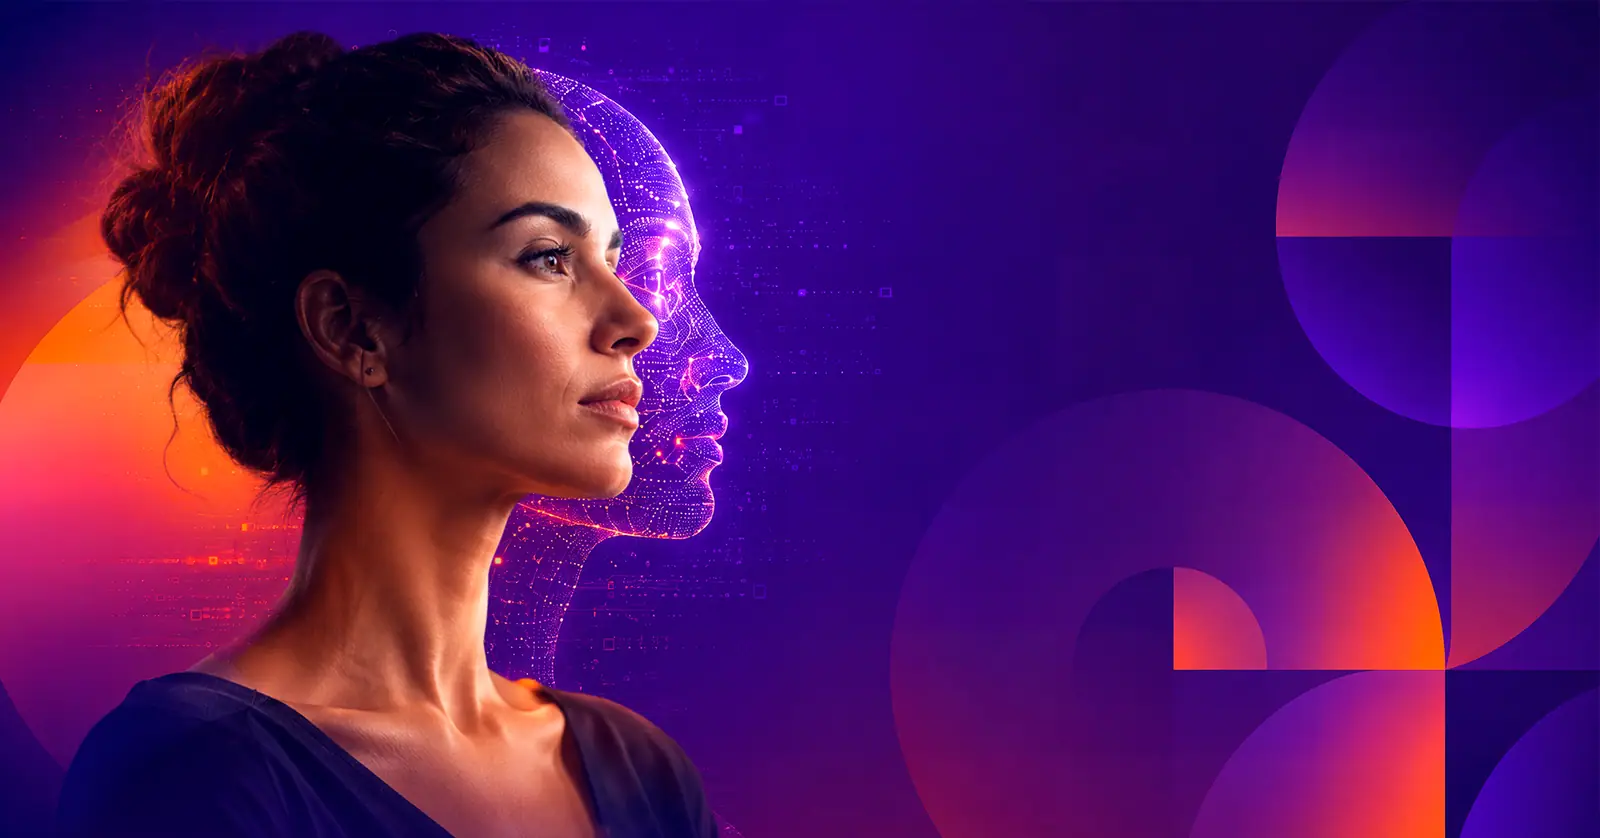
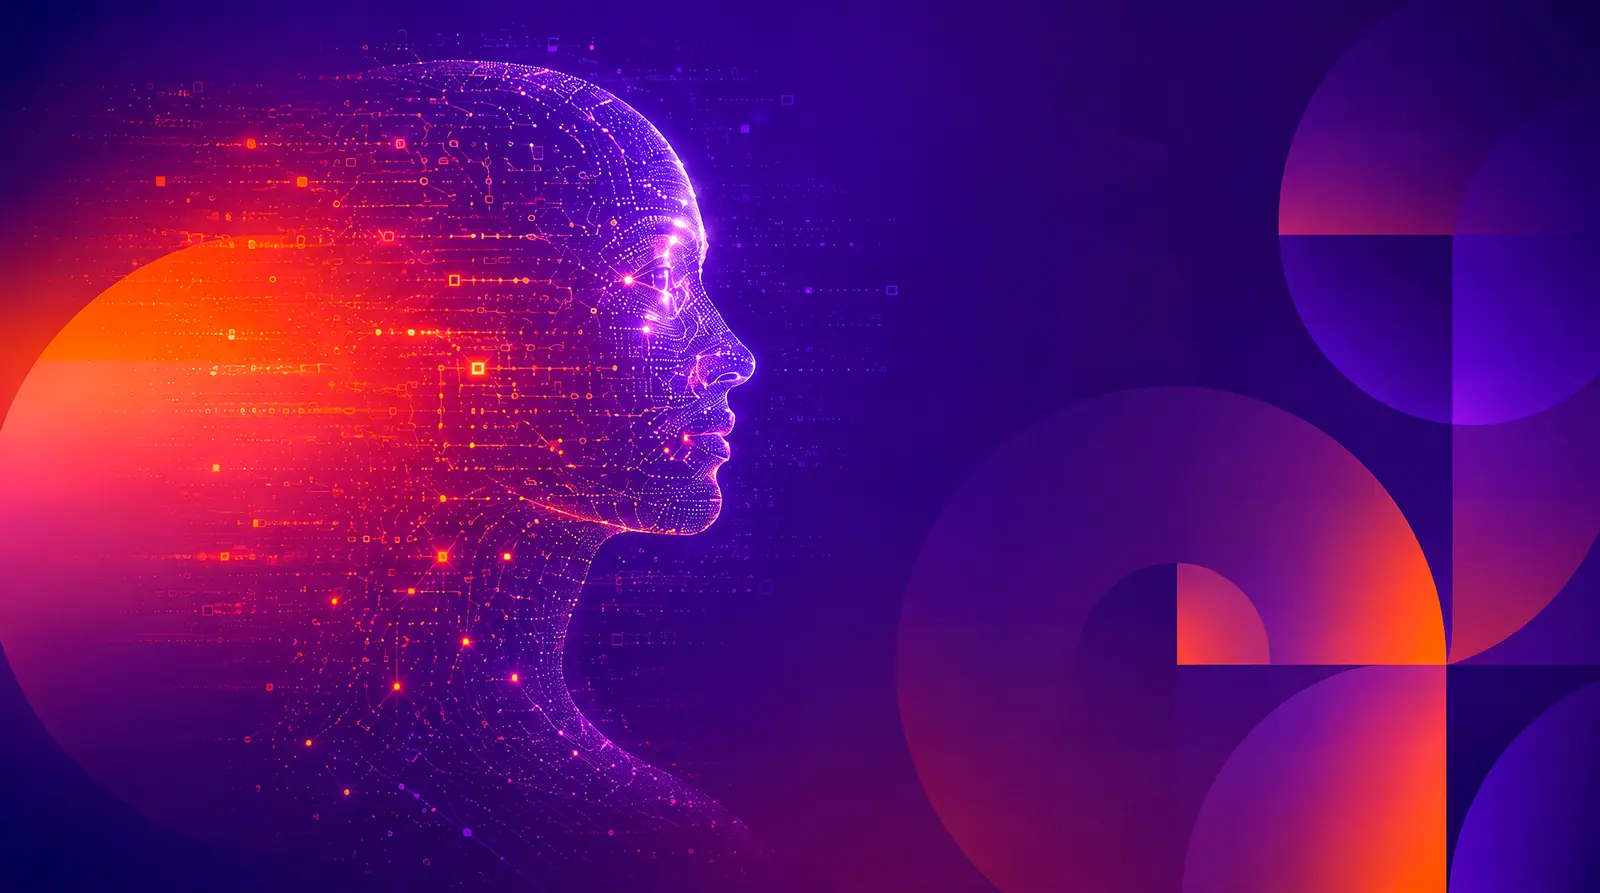
feat(site): hero no estilo do manual da marca + Gart Capote
Hero refeito segundo o ID oficial (ID PMIRS SUMMIT 26.pdf)
- Arte em saturacao total: o scrim caiu de .90/.74/.42 para 0/.30/.62.
  O manual trata a arte como protagonista, nao como textura de fundo.
- Texto migra para o espaco negativo a direita; a coluna esquerda fica livre
  para a arte respirar. Antes o texto cobria o sujeito da foto.
- "Human + IA" vira o headline (104px, peso 300), com o texto anterior como
  subtitulo - a hierarquia das paginas 1, 2 e 5 do manual.
- O sinal de mais em #FC6226, o laranja vivo do manual.

Imagens por secao (a pedido)
- Hero: bg 06
- Workshops exclusivos: bg 01
- Nao perca / CTA final: bg 03

Palestrantes
- Gart Capote como keynote e como instrutor de workshop
- Selo de LinkedIn ao lado do nome (Gino e Gart), com variante para fundo claro

Correcoes
- .nav-right tinha display:flex inline vencendo a media query de 980px, entao
  ficava visivel no mobile sobrepondo o logo do PMI
- Verdes residuais que o regex anterior nao pegou: #10342b, #0a1f18 e o par
  claro #e8f4ee/#f3faf6 na secao de precos
- .hero-art escondida em <=980px: com uma coluna so, virava um vazio no topo
  (hero mobile: 1042px -> 814px)

Contraste reverificado apos a reducao do scrim: 6 pares, todos >= 5.60:1.

Pendente: fotos de Gart Capote (ha TODO nos dois cards).

diff --git a/index.html b/index.html
@@ -59,7 +59,7 @@
 </script>
 <link rel="preconnect" href="https://fonts.googleapis.com">
 <link rel="preconnect" href="https://fonts.gstatic.com" crossorigin>
-<link href="https://fonts.googleapis.com/css2?family=Hanken+Grotesk:ital,wght@0,400;0,500;0,600;0,700;0,800;1,400&family=Schibsted+Grotesk:wght@500;600;700;800;900&display=swap" rel="stylesheet">
+<link href="https://fonts.googleapis.com/css2?family=Hanken+Grotesk:ital,wght@0,200;0,300;0,400;0,500;0,600;0,700;0,800;1,400&family=Schibsted+Grotesk:wght@500;600;700;800;900&display=swap" rel="stylesheet">
 <style>
 :root{
   --ink:#1a1230;
@@ -69,6 +69,7 @@
   --violet:#7C3AED;
   --violet-d:#6D28D9;
   --tang-lt:#FF9A5C;
+  --brand-orange:#FC6226;   /* laranja vivo do manual: "save the date", "KEYNOTE CONFIRMADO" */
   --teal:#E05B17;
   --green:#C2410C;
   --navy:#1b1145;
@@ -131,12 +132,21 @@ nav.top.scrolled{box-shadow:0 4px 30px rgba(20,13,51,.55);}
 .hero{position:relative;background:var(--hero-grad);padding:clamp(56px,8vw,104px) 0 0;overflow:hidden;}.stats-outer{position:relative;z-index:4;}
 /* Foto oficial da marca. O gradiente acima permanece como paint-before-decode. */
 .hero::before{content:'';position:absolute;inset:0;z-index:0;background-image:image-set(url('assets/hero-summit.webp') type('image/webp'),url('assets/hero-summit.jpg') type('image/jpeg'));background-position:center;background-size:cover;}
-/* Scrim direcional: escurece a esquerda (onde fica o h1, e onde o sujeito da foto
-   está) e abre à direita, deixando a arte respirar atrás do .hero-card.
-   A passada vertical não é opcional — a .stats-bar sobe -50% sobre esta borda. */
-.hero-glow{position:absolute;inset:0;z-index:1;pointer-events:none;background:linear-gradient(180deg,rgba(20,13,51,0) 55%,rgba(20,13,51,.92) 100%),linear-gradient(90deg,rgba(20,13,51,.90) 0%,rgba(20,13,51,.74) 42%,rgba(20,13,51,.42) 100%);}
-.hero-grid{display:grid;grid-template-columns:1.05fr .95fr;gap:clamp(28px,5vw,72px);align-items:center;padding-bottom:96px;position:relative;z-index:2;}
-.hero h1{color:#fff;font-size:clamp(28px,4.2vw,58px);line-height:1.1;margin:0;text-align:center;}
+/* Manual da marca: a arte é protagonista, não textura de fundo. Sem véu por cima
+   dela — o texto vive no espaço negativo à DIREITA, que já é roxo escuro na foto.
+   Só um reforço suave à direita (para o texto) e na base (a .stats-bar sobe -50%
+   sobre esta borda e precisa de fundo sólido). A esquerda fica intocada. */
+.hero-glow{position:absolute;inset:0;z-index:1;pointer-events:none;background:linear-gradient(180deg,rgba(20,13,51,0) 62%,rgba(20,13,51,.90) 100%),linear-gradient(90deg,rgba(20,13,51,0) 38%,rgba(20,13,51,.30) 62%,rgba(20,13,51,.62) 100%);}
+/* Coluna 1 fica vazia de proposito: e onde a arte respira (sujeito da foto).
+   Todo o conteudo vai para a coluna 2, o espaco negativo do material oficial. */
+.hero-grid{display:grid;grid-template-columns:.92fr 1.08fr;gap:clamp(28px,5vw,64px);align-items:center;padding-bottom:96px;position:relative;z-index:2;}
+.hero-art{min-height:clamp(280px,42vw,560px);}
+.hero-col{display:flex;flex-direction:column;gap:clamp(24px,3vw,38px);}
+/* "Human + IA": headline oficial. Peso leve e corpo grande, como no manual —
+   o contrario do bold pesado que estava aqui antes. */
+.hero h1{color:#fff;font-size:clamp(46px,7.4vw,104px);font-weight:300;line-height:1.02;letter-spacing:-.03em;margin:0;text-align:left;}
+.hero h1 .plus{color:var(--brand-orange);font-weight:300;}
+.hero-tagline{color:#fff;font-size:clamp(17px,1.9vw,25px);font-weight:400;line-height:1.34;margin:20px 0 0;max-width:22ch;opacity:0;animation:wordUp .55s .75s cubic-bezier(.22,1,.36,1) forwards;}
 @keyframes wordUp{from{opacity:0;transform:translateY(26px)}to{opacity:1;transform:translateY(0)}}
 @keyframes lineGrow{from{width:0}to{width:100%}}
 .hw{display:inline-block;opacity:0;animation:wordUp .55s cubic-bezier(.22,1,.36,1) forwards;}
@@ -214,6 +224,15 @@ p.desc{color:var(--muted);font-size:17px;line-height:1.6;margin:18px 0 0;}
 .spk-card-feat h3{color:#fff;font-size:clamp(22px,2.4vw,30px);margin:0;}
 .spk-card-feat .ro{color:#FF9A5C;font-size:11px;font-weight:700;letter-spacing:.06em;text-transform:uppercase;margin:0;line-height:1.6;}
 .spk-card-feat .bi{color:#d6cef0;font-size:14px;line-height:1.6;margin:0;}
+/* Selo de LinkedIn ao lado do nome do palestrante. Reutilizavel em qualquer card. */
+.li-badge{display:inline-flex;align-items:center;justify-content:center;width:26px;height:26px;border-radius:6px;background:rgba(255,255,255,.12);border:1px solid rgba(255,255,255,.2);vertical-align:middle;margin-left:10px;transition:background .18s,border-color .18s,transform .18s;}
+.li-badge:hover{background:#0A66C2;border-color:#0A66C2;transform:translateY(-2px);}
+.li-badge svg{width:14px;height:14px;fill:#fff;display:block;}
+/* Sobre fundo claro (secao Spotlight) */
+.li-badge.on-light{background:rgba(26,18,48,.08);border-color:rgba(26,18,48,.16);}
+.li-badge.on-light svg{fill:#1a1230;}
+.li-badge.on-light:hover{background:#0A66C2;border-color:#0A66C2;}
+.li-badge.on-light:hover svg{fill:#fff;}
 @media(max-width:680px){.spk-card-feat{grid-template-columns:1fr;}.spk-card-feat .ph{height:280px;}}
 
 /* ── PRICING ── */
@@ -302,7 +321,7 @@ p.desc{color:var(--muted);font-size:17px;line-height:1.6;margin:18px 0 0;}
 .hl p{color:#d6cef0;font-size:13.5px;line-height:1.5;margin:0;}
 
 /* ── KEYNOTE DARK ── */
-.key-dark{background:linear-gradient(150deg,#2a1660,#1b1145 55%,#10342b);padding:clamp(56px,7vw,96px) 0;}
+.key-dark{background:linear-gradient(150deg,#2a1660,#1b1145 55%,#3a1d8c);padding:clamp(56px,7vw,96px) 0;}
 .key-grid{display:grid;grid-template-columns:repeat(auto-fit,minmax(260px,1fr));gap:24px;align-items:stretch;margin-top:46px;}
 .key-card{position:relative;border-radius:var(--rad);overflow:hidden;min-height:380px;background:#241a52;padding:26px;display:flex;flex-direction:column;justify-content:flex-end;}
 .key-card .ph{position:absolute;inset:0;width:100%;height:100%;object-fit:cover;z-index:0;}
@@ -311,7 +330,7 @@ p.desc{color:var(--muted);font-size:17px;line-height:1.6;margin:18px 0 0;}
 .key-card h3{color:#fff;font-size:23px;margin:0 0 4px;}
 .key-card .kr{color:#a87bf0;font-size:11px;font-weight:700;letter-spacing:.06em;text-transform:uppercase;margin:0 0 12px;}
 .key-card .kb{color:#d6cef0;font-size:13.5px;line-height:1.5;margin:0;}
-.key-tba{border-radius:var(--rad);background:linear-gradient(180deg,#10342b,#0a1f18);min-height:380px;display:flex;flex-direction:column;align-items:center;justify-content:center;text-align:center;padding:30px;}
+.key-tba{border-radius:var(--rad);background:linear-gradient(180deg,#2a1560,#1a0f3d);min-height:380px;display:flex;flex-direction:column;align-items:center;justify-content:center;text-align:center;padding:30px;}
 .key-tba .circ-ph{width:88px;height:88px;border-radius:50%;background:rgba(255,255,255,.06);margin-bottom:22px;}
 .key-tba h3{color:#fff;font-size:19px;font-weight:700;margin:0 0 10px;}
 .key-tba p{color:#cdc5e8;font-size:14px;margin:0;}
@@ -320,7 +339,7 @@ p.desc{color:var(--muted);font-size:17px;line-height:1.6;margin:18px 0 0;}
 .spot{padding:clamp(50px,6vw,80px) 0;}
 
 /* ── FULL LIST CTA ── */
-.full-cta-card{position:relative;border-radius:var(--rad);overflow:hidden;background:linear-gradient(120deg,#10342b,#1b1145 60%,#241a52);padding:clamp(36px,5vw,60px);min-height:240px;}
+.full-cta-card{position:relative;border-radius:var(--rad);overflow:hidden;background:linear-gradient(120deg,#7a2d10,#1b1145 60%,#241a52);padding:clamp(36px,5vw,60px);min-height:240px;}
 .full-cta-card::after{content:'';position:absolute;inset:0;background:radial-gradient(circle at 75% 60%,rgba(47,111,179,.4),transparent 55%);pointer-events:none;}
 .full-cta-inner{position:relative;z-index:1;max-width:440px;}
 .full-cta-inner h2{color:#fff;font-size:clamp(30px,3.6vw,44px);line-height:1.04;margin:0 0 24px;}
@@ -422,6 +441,9 @@ footer{background:#fff;padding:clamp(40px,5vw,60px) 0;border-top:1px solid rgba(
   .nav-links,.nav-right{display:none;}
   .nav-burger{display:flex;}
   .hero-grid{grid-template-columns:1fr;padding-bottom:56px;}
+  /* Com 1 coluna a reserva de espaco para a arte vira so um vazio no topo:
+     a bg mobile e abstrata, nao tem sujeito para preservar. */
+  .hero-art{display:none;}
   .stats-bar{grid-template-columns:repeat(2,1fr);transform:translateY(-26px);row-gap:6px;}
   .price-grid{grid-template-columns:1fr;}
   .price-cards{flex-direction:column;}
@@ -436,7 +458,9 @@ footer{background:#fff;padding:clamp(40px,5vw,60px) 0;border-top:1px solid rgba(
      Scrim vira simétrico — o .hero-grid já colapsou para 1 coluna em 980px. */
   .hero::before{background-image:url('assets/hero-mobile.webp');background-position:center top;}
   .hero-glow{background:linear-gradient(180deg,rgba(20,13,51,.62) 0%,rgba(20,13,51,.88) 100%);}
-  .hero h1{font-size:40px;}
+  /* "Human + IA" tem 10 caracteres — cabe bem maior que o headline longo antigo */
+  .hero h1{font-size:clamp(44px,13vw,60px);}
+  .hero-art{min-height:200px;}
   h2.sec{font-size:28px;}
   .split.rev{direction:ltr;}
   .diamond-wrap{display:none;}
@@ -450,7 +474,7 @@ footer{background:#fff;padding:clamp(40px,5vw,60px) 0;border-top:1px solid rgba(
   .group-banner{flex-direction:column;align-items:flex-start;}
 }
 @media(max-width:480px){
-  .hero h1{font-size:32px;}
+  .hero h1{font-size:clamp(40px,12vw,52px);}
   .sb-v{font-size:25px;}
   .stats-bar{padding:18px 12px;}
   .spk-card-feat .ph{height:230px;}
@@ -477,7 +501,9 @@ footer{background:#fff;padding:clamp(40px,5vw,60px) 0;border-top:1px solid rgba(
       <a href="#seja-patrocinador">Patrocínio</a>
       <a href="#venue">Local</a>
     </div>
-    <div class="nav-right" style="display:flex;align-items:center;gap:16px;">
+    <!-- sem display inline: ele vencia a media query de 980px e mantinha este
+         bloco visivel no mobile, sobrepondo o logo do PMI. A classe ja estiliza. -->
+    <div class="nav-right" style="gap:16px;">
       <span style="color:#fff;font-weight:700;font-size:13.5px;white-space:nowrap;opacity:.92;">13–14 nov 2026</span>
       <a href="https://www.sympla.com.br/evento/pmi-rs-summit-2026/3398919" target="_blank" class="btn btn-v btn-sm">Inscreva-se</a>
     </div>
@@ -503,15 +529,16 @@ footer{background:#fff;padding:clamp(40px,5vw,60px) 0;border-top:1px solid rgba(
   <div class="hero-glow"></div>
   <div class="container">
     <div class="hero-grid">
-      <div>
+      <!-- Coluna vazia: espaco reservado para a arte da marca respirar -->
+      <div class="hero-art" aria-hidden="true"></div>
+      <div class="hero-col">
+      <div class="hero-copy">
         <h1>
-          <span class="hw" style="animation-delay:.04s">Desenvolvendo</span>
-          <span class="hw hw-teal" style="animation-delay:.16s"> Pessoas</span><br>
-          <span class="hw" style="animation-delay:.28s">para um</span>
-          <span class="hw" style="animation-delay:.38s"> mundo</span><br>
-          <span class="hw hw-und" style="animation-delay:.48s">em Transformação</span>
+          <span class="hw" style="animation-delay:.04s">Human</span>
+          <span class="hw plus" style="animation-delay:.18s"> +</span>
+          <span class="hw" style="animation-delay:.30s"> IA</span>
         </h1>
-        <p class="hero-support" style="animation:wordUp .55s .8s cubic-bezier(.22,1,.36,1) forwards;">O futuro começa com os passos de hoje.</p>
+        <p class="hero-tagline">Desenvolvendo pessoas para um mundo em transformação</p>
       </div>
       <div class="hero-card">
         <h2>PMIRS Summit<br>2026</h2>
@@ -527,6 +554,7 @@ footer{background:#fff;padding:clamp(40px,5vw,60px) 0;border-top:1px solid rgba(
           <div class="cd"><div class="n" id="cd-m">--</div><div class="l">Min</div></div>
           <div class="cd"><div class="n" id="cd-s">--</div><div class="l">Seg</div></div>
         </div>
+      </div>
       </div>
     </div>
   </div>
@@ -628,23 +656,26 @@ footer{background:#fff;padding:clamp(40px,5vw,60px) 0;border-top:1px solid rgba(
       <div class="spk-card-feat" data-reveal>
         <img src="assets/gino-terentim.webp" alt="Gino Terentim" class="ph" loading="lazy">
         <div class="si">
-          <h3>Gino Terentim</h3>
+          <h3>Gino Terentim<a href="https://www.linkedin.com/in/ginoterentim/" target="_blank" rel="noopener" class="li-badge" aria-label="LinkedIn de Gino Terentim"><svg viewBox="0 0 24 24" xmlns="http://www.w3.org/2000/svg"><path d="M20.45 20.45h-3.56v-5.57c0-1.33-.03-3.04-1.85-3.04-1.85 0-2.14 1.45-2.14 2.94v5.67H9.35V9h3.41v1.56h.05c.48-.9 1.63-1.85 3.36-1.85 3.6 0 4.27 2.37 4.27 5.45v6.29zM5.34 7.43a2.06 2.06 0 1 1 0-4.13 2.06 2.06 0 0 1 0 4.13zm1.78 13.02H3.56V9h3.56v11.45zM22.22 0H1.77C.79 0 0 .77 0 1.72v20.56C0 23.23.79 24 1.77 24h20.45c.98 0 1.78-.77 1.78-1.72V1.72C24 .77 23.2 0 22.22 0z"/></svg></a></h3>
           <p class="ro">Doutor · Université de Bordeaux &nbsp;|&nbsp; Trainer Dale Carnegie &nbsp;|&nbsp; Palestrante TEDx</p>
           <p class="bi">MBA em Gerenciamento de Projetos pela ESALQ/USP e MBE pela FEA/USP. Referência nacional em transformação organizacional, liderança e desenvolvimento humano. Combina rigor intelectual com autenticidade para criar workshops que desenvolvem pessoas e impulsionam equipes de alta performance.</p>
           <p class="bi" style="margin-top:8px;color:#a87bf0;font-weight:600;">Certificações em Portfólios, Programas, Projetos, Change Management, Lean e Agile.</p>
         </div>
       </div>
-      <div class="spk-card-feat" data-reveal style="background:#1a1040;">
-        <div style="display:flex;align-items:center;justify-content:center;background:rgba(255,255,255,.04);height:100%;">
+      <!-- TODO: adicionar foto de Gart Capote e trocar este bloco do avatar por
+           <img src="assets/gart-capote.webp" alt="Gart Capote" class="ph" loading="lazy"> -->
+      <div class="spk-card-feat" data-reveal>
+        <div style="display:flex;align-items:center;justify-content:center;background:rgba(255,255,255,.05);height:100%;">
           <svg width="90" height="90" viewBox="0 0 90 90" fill="none" xmlns="http://www.w3.org/2000/svg">
-            <circle cx="45" cy="32" r="20" fill="rgba(255,255,255,.1)"/>
-            <path d="M10 88c0-19.33 15.67-35 35-35s35 15.67 35 35" fill="rgba(255,255,255,.1)"/>
+            <circle cx="45" cy="32" r="20" fill="rgba(255,255,255,.14)"/>
+            <path d="M10 88c0-19.33 15.67-35 35-35s35 15.67 35 35" fill="rgba(255,255,255,.14)"/>
           </svg>
         </div>
-        <div class="si" style="justify-content:center;">
-          <h3 style="color:rgba(255,255,255,.35);">Em breve</h3>
-          <p class="ro" style="color:rgba(111,230,184,.4);">A ser confirmado</p>
-          <p class="bi" style="color:rgba(255,255,255,.25);">Siga o PMIRS no LinkedIn para ser o primeiro a saber quem é o próximo instrutor confirmado.</p>
+        <div class="si">
+          <h3>Gart Capote<a href="https://www.linkedin.com/in/gartcapote/" target="_blank" rel="noopener" class="li-badge" aria-label="LinkedIn de Gart Capote"><svg viewBox="0 0 24 24" xmlns="http://www.w3.org/2000/svg"><path d="M20.45 20.45h-3.56v-5.57c0-1.33-.03-3.04-1.85-3.04-1.85 0-2.14 1.45-2.14 2.94v5.67H9.35V9h3.41v1.56h.05c.48-.9 1.63-1.85 3.36-1.85 3.6 0 4.27 2.37 4.27 5.45v6.29zM5.34 7.43a2.06 2.06 0 1 1 0-4.13 2.06 2.06 0 0 1 0 4.13zm1.78 13.02H3.56V9h3.56v11.45zM22.22 0H1.77C.79 0 0 .77 0 1.72v20.56C0 23.23.79 24 1.77 24h20.45c.98 0 1.78-.77 1.78-1.72V1.72C24 .77 23.2 0 22.22 0z"/></svg></a></h3>
+          <p class="ro">Workshop &nbsp;|&nbsp; BPM e Gestão por Processos</p>
+          <p class="bi">Autoridade brasileira em BPM (Business Process Management) e criador do conceito de <b>Nexialismo Organizacional</b>. Autor de livros sobre gestão por processos, atua como consultor, palestrante e instrutor na disciplina.</p>
+          <p class="bi" style="margin-top:8px;color:#a87bf0;font-weight:600;">Processos, pessoas e estratégia conectados na prática.</p>
         </div>
       </div>
     </div>
@@ -652,7 +683,7 @@ footer{background:#fff;padding:clamp(40px,5vw,60px) 0;border-top:1px solid rgba(
 </section>
 
 <!-- ── PRICING WORKSHOPS (DIA 13) ── -->
-<section class="pad" id="lotes-workshops" style="background:linear-gradient(180deg,#e8f4ee,#f3faf6);">
+<section class="pad" id="lotes-workshops" style="background:linear-gradient(180deg,#f5eefb,#fbf7fe);">
   <div class="container">
     <div style="text-align:center;margin-bottom:clamp(28px,4vw,44px);">
       <p class="eyebrow" style="color:#E05B17;">Ingressos</p>
@@ -878,11 +909,15 @@ footer{background:#fff;padding:clamp(40px,5vw,60px) 0;border-top:1px solid rgba(
       <p style="color:#cdc5e8;font-size:17px;line-height:1.55;margin:0 auto 46px;max-width:560px;">Competências humanas e inteligência artificial como aliada, ideias e histórias reais para ampliar seu impacto na gestão de projetos.</p>
     </div>
     <div class="key-grid" style="max-width:1100px;margin:0 auto;">
-      <div class="key-tba" data-reveal>
-        <div class="circ-ph"></div>
-        <h3>Em breve</h3>
-        <p style="color:#FF9A5C;font-size:12px;font-weight:700;letter-spacing:.06em;text-transform:uppercase;margin:0 0 10px;">A ser confirmado</p>
-        <p>Siga o PMIRS no <a href="https://www.linkedin.com/company/PMIRS" target="_blank">LinkedIn</a> para ser o primeiro a saber quem é o próximo palestrante confirmado.</p>
+      <!-- TODO: adicionar foto de Gart Capote em assets/ e trocar por:
+           <img src="assets/gart-capote.webp" alt="Gart Capote" class="ph" loading="lazy">
+           <div class="vl"></div>   (antes do div.ki) -->
+      <div class="key-card" data-reveal>
+        <div class="ki">
+          <h3>Gart Capote<a href="https://www.linkedin.com/in/gartcapote/" target="_blank" rel="noopener" class="li-badge" aria-label="LinkedIn de Gart Capote"><svg viewBox="0 0 24 24" xmlns="http://www.w3.org/2000/svg"><path d="M20.45 20.45h-3.56v-5.57c0-1.33-.03-3.04-1.85-3.04-1.85 0-2.14 1.45-2.14 2.94v5.67H9.35V9h3.41v1.56h.05c.48-.9 1.63-1.85 3.36-1.85 3.6 0 4.27 2.37 4.27 5.45v6.29zM5.34 7.43a2.06 2.06 0 1 1 0-4.13 2.06 2.06 0 0 1 0 4.13zm1.78 13.02H3.56V9h3.56v11.45zM22.22 0H1.77C.79 0 0 .77 0 1.72v20.56C0 23.23.79 24 1.77 24h20.45c.98 0 1.78-.77 1.78-1.72V1.72C24 .77 23.2 0 22.22 0z"/></svg></a></h3>
+          <p class="kr">Keynote &nbsp;|&nbsp; Autoridade em BPM no Brasil</p>
+          <p class="kb">Criador do conceito de <b>Nexialismo Organizacional</b>, autor de livros sobre gestão por processos e referência nacional em BPM. Atua como consultor, palestrante e instrutor, conectando processos, pessoas e estratégia.</p>
+        </div>
       </div>
       <div class="key-tba" data-reveal>
         <div class="circ-ph"></div>
@@ -910,7 +945,7 @@ footer{background:#fff;padding:clamp(40px,5vw,60px) 0;border-top:1px solid rgba(
       <div class="circ"><img src="assets/gino-terentim.webp" alt="Gino Terentim" loading="lazy"></div>
       <div>
         <p class="eyebrow">Destaque de Keynote</p>
-        <h2 class="sec">Gino Terentim</h2>
+        <h2 class="sec">Gino Terentim<a href="https://www.linkedin.com/in/ginoterentim/" target="_blank" rel="noopener" class="li-badge on-light" aria-label="LinkedIn de Gino Terentim"><svg viewBox="0 0 24 24" xmlns="http://www.w3.org/2000/svg"><path d="M20.45 20.45h-3.56v-5.57c0-1.33-.03-3.04-1.85-3.04-1.85 0-2.14 1.45-2.14 2.94v5.67H9.35V9h3.41v1.56h.05c.48-.9 1.63-1.85 3.36-1.85 3.6 0 4.27 2.37 4.27 5.45v6.29zM5.34 7.43a2.06 2.06 0 1 1 0-4.13 2.06 2.06 0 0 1 0 4.13zm1.78 13.02H3.56V9h3.56v11.45zM22.22 0H1.77C.79 0 0 .77 0 1.72v20.56C0 23.23.79 24 1.77 24h20.45c.98 0 1.78-.77 1.78-1.72V1.72C24 .77 23.2 0 22.22 0z"/></svg></a></h2>
         <p style="font-size:17px;font-weight:600;line-height:1.5;margin-top:12px;">Doutor · Université de Bordeaux · Trainer Dale Carnegie · Palestrante TEDx</p>
         <p class="desc">MBA em Gerenciamento de Projetos pela ESALQ/USP e MBE pela FEA/USP. Referência nacional em transformação organizacional, liderança e desenvolvimento humano. Combina rigor intelectual com autenticidade para criar workshops que desenvolvem pessoas e impulsionam equipes de alta performance.</p>
         <p class="desc" style="margin-top:12px;">Certificações em Portfólios, Programas, Projetos, Change Management, Lean e Agile.</p>
